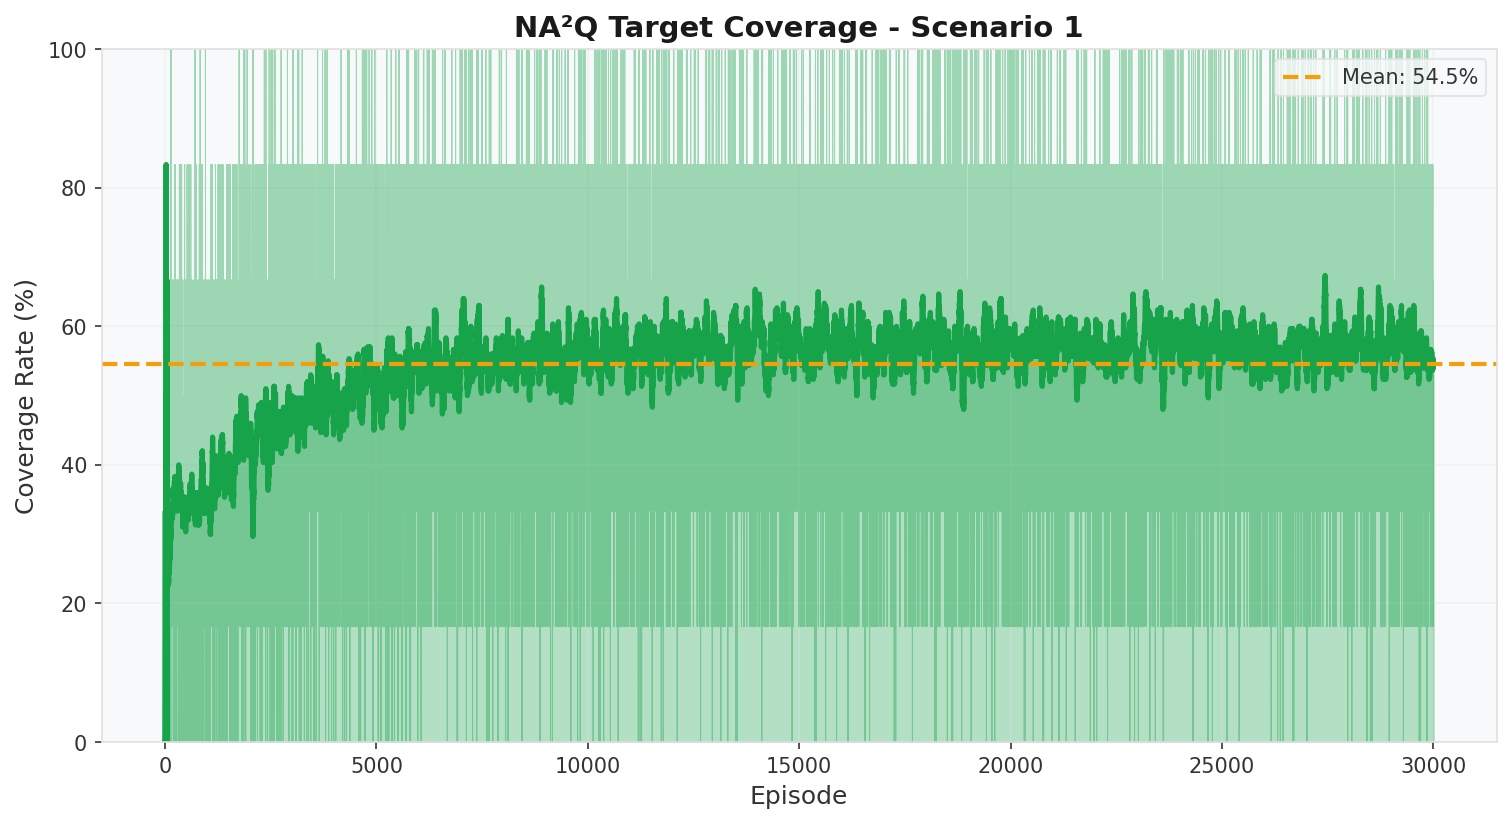
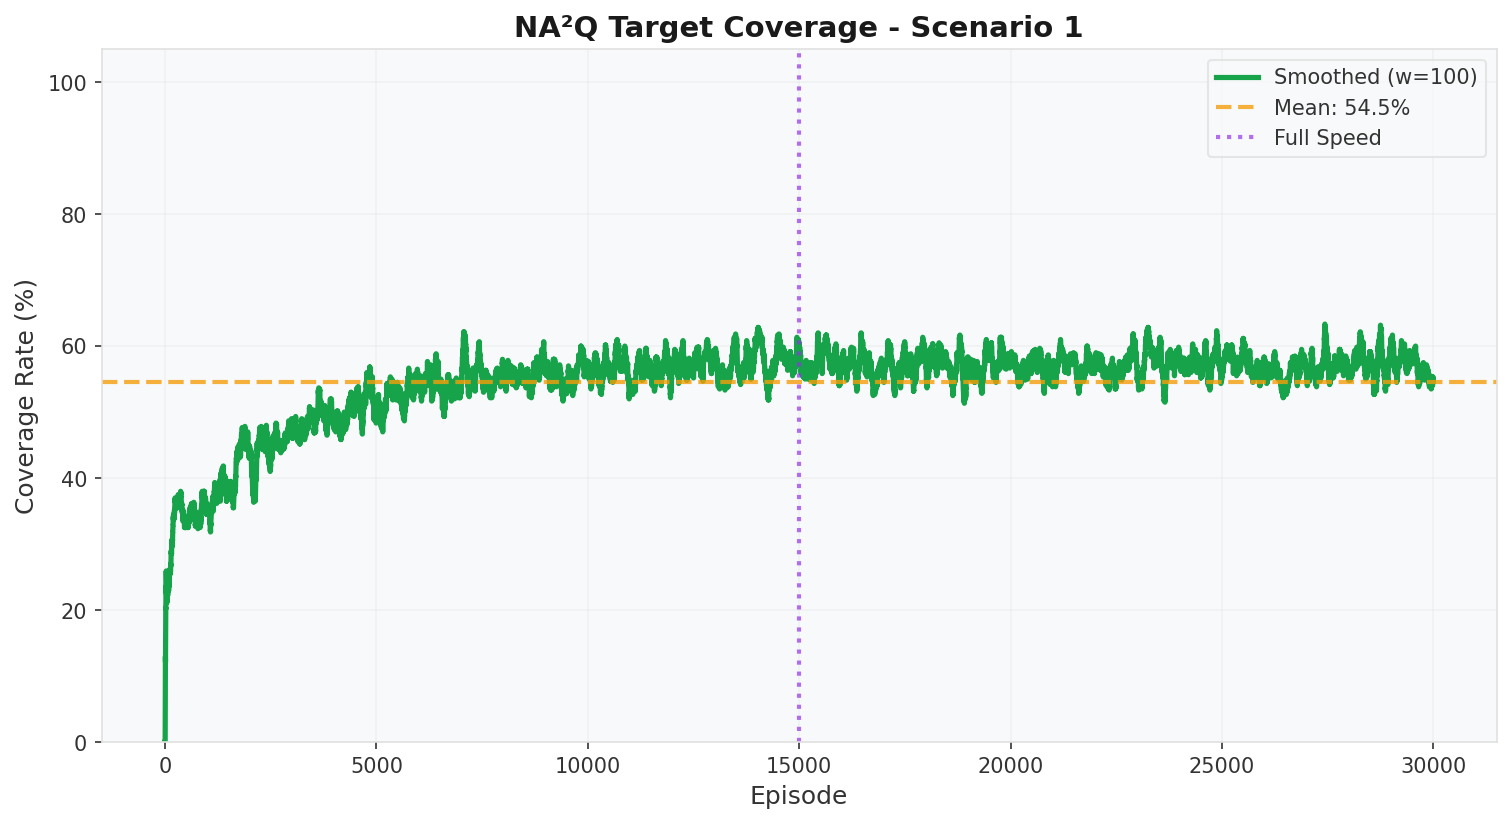
dqw

diff --git a/visualize.py b/visualize.py
@@ -52,17 +52,17 @@ from na2q.utils import get_device
 
 
 def smooth_curve(values: List[float], window: int = 10) -> np.ndarray:
-    """Smooth a curve using moving average."""
+    """Smooth a curve using moving average with expanding window at start."""
     if len(values) < window:
         return np.array(values)
     
-    weights = np.ones(window) / window
-    smoothed = np.convolve(values, weights, mode='valid')
+    values_arr = np.array(values)
+    smoothed = np.zeros(len(values))
     
-    # Pad beginning
-    pad_size = len(values) - len(smoothed)
-    if pad_size > 0:
-        smoothed = np.concatenate([values[:pad_size], smoothed])
+    # Use expanding window for the beginning (avoids spike)
+    for i in range(len(values)):
+        start_idx = max(0, i - window + 1)
+        smoothed[i] = np.mean(values_arr[start_idx:i+1])
     
     return smoothed
 
@@ -102,6 +102,9 @@ def plot_training_results(exp_dir: str, window: int = 50, history_dir: Optional[
     
     episodes = np.arange(1, len(rewards) + 1)
     coverage_pct = np.array(coverages) * 100
+    
+    # Curriculum milestone: targets reach full speed at 50% of episodes
+    full_speed_episode = len(rewards) // 2
     
     # =========================================================================
     # Light Theme Dashboard
@@ -144,11 +147,9 @@ def plot_training_results(exp_dir: str, window: int = 50, history_dir: Optional[
     # -------------------------------------------------------------------------
     ax1 = axes[0, 0]
     smoothed_rewards = smooth_curve(list(rewards), window)
-    ax1.fill_between(episodes, 0, smoothed_rewards, alpha=0.2, color=REWARD_COLOR)
-    ax1.plot(episodes, rewards, alpha=0.3, color=REWARD_COLOR, linewidth=0.5)
     ax1.plot(episodes, smoothed_rewards, color=REWARD_COLOR, linewidth=2.5, label=f'Smoothed (w={window})')
-    ax1.axhline(y=np.mean(rewards[-100:]), color='#f59e0b', linestyle='--', linewidth=1.5, 
-                alpha=0.8, label=f'Final: {np.mean(rewards[-100:]):.1f}')
+    ax1.axvline(x=full_speed_episode, color='#9333ea', linestyle=':', linewidth=1.5,
+                alpha=0.7, label='Full Speed')
     style_axis(ax1, 'Episode Reward', 'Episode', 'Reward', REWARD_COLOR)
     ax1.legend(loc='lower right', facecolor=PANEL_BG, edgecolor=GRID_COLOR, 
                labelcolor=TEXT_COLOR, fontsize=9)
@@ -158,13 +159,11 @@ def plot_training_results(exp_dir: str, window: int = 50, history_dir: Optional[
     # -------------------------------------------------------------------------
     ax2 = axes[0, 1]
     smoothed_coverage = smooth_curve(list(coverage_pct), window)
-    ax2.fill_between(episodes, 0, smoothed_coverage, alpha=0.2, color=COVERAGE_COLOR)
-    ax2.plot(episodes, coverage_pct, alpha=0.3, color=COVERAGE_COLOR, linewidth=0.5)
     ax2.plot(episodes, smoothed_coverage, color=COVERAGE_COLOR, linewidth=2.5, label=f'Smoothed (w={window})')
-    ax2.axhline(y=np.mean(coverage_pct[-100:]), color='#f59e0b', linestyle='--', linewidth=1.5,
-                alpha=0.8, label=f'Final: {np.mean(coverage_pct[-100:]):.1f}%')
+    ax2.axvline(x=full_speed_episode, color='#9333ea', linestyle=':', linewidth=1.5,
+                alpha=0.7, label='Full Speed')
     style_axis(ax2, 'Coverage Rate', 'Episode', 'Coverage (%)', COVERAGE_COLOR)
-    ax2.set_ylim(0, 100)
+    ax2.set_ylim(0, 105)
     ax2.legend(loc='lower right', facecolor=PANEL_BG, edgecolor=GRID_COLOR,
                labelcolor=TEXT_COLOR, fontsize=9)
     
@@ -177,20 +176,13 @@ def plot_training_results(exp_dir: str, window: int = 50, history_dir: Optional[
         valid_losses = [l if l > 0 else np.nan for l in losses]
         loss_x = np.linspace(1, len(rewards), len(valid_losses))
         
-        ax3.plot(loss_x, valid_losses, alpha=0.3, color=LOSS_COLOR, linewidth=0.5)
-        
         if len(losses) > window:
             # Smooth only non-zero losses
             clean_losses = [l for l in losses if l > 0]
             if len(clean_losses) > window:
-                smooth_loss = np.convolve(clean_losses, np.ones(window)/window, mode='valid')
+                smooth_loss = smooth_curve(clean_losses, window)
                 smooth_x = np.linspace(1, len(rewards), len(smooth_loss))
-                ax3.fill_between(smooth_x, 0, smooth_loss, alpha=0.2, color=LOSS_COLOR)
                 ax3.plot(smooth_x, smooth_loss, color=LOSS_COLOR, linewidth=2.5, label=f'Smoothed (w={window})')
-        
-        final_loss = np.mean([l for l in losses[-100:] if l > 0]) if len(losses) > 0 else 0
-        ax3.axhline(y=final_loss, color='#f59e0b', linestyle='--', linewidth=1.5,
-                    alpha=0.8, label=f'Final: {final_loss:.4f}')
     style_axis(ax3, 'Training Loss', 'Episode', 'Loss', LOSS_COLOR)
     ax3.legend(loc='upper right', facecolor=PANEL_BG, edgecolor=GRID_COLOR,
                labelcolor=TEXT_COLOR, fontsize=9)
@@ -206,19 +198,17 @@ def plot_training_results(exp_dir: str, window: int = 50, history_dir: Optional[
     Training Summary
     ─────────────────────────────
     Total Episodes: {len(rewards):,}
+    Full Speed at:  Episode {full_speed_episode:,}
     
     Reward:
-      Final (avg last 100): {np.mean(rewards[-100:]):.2f}
-      Best Episode: {np.max(rewards):.2f}
-      Overall Mean: {np.mean(rewards):.2f}
+      Highest: {np.max(rewards):.2f}
+      Lowest:  {np.min(rewards):.2f}
+      Mean:    {np.mean(rewards):.2f}
     
     Coverage:
-      Final (avg last 100): {np.mean(coverages[-100:])*100:.1f}%
-      Best Episode: {np.max(coverages)*100:.1f}%
-      Overall Mean: {np.mean(coverages)*100:.1f}%
-    
-    Loss:
-      Final (avg last 100): {np.mean([l for l in losses[-100:] if l > 0]):.4f}
+      Highest: {np.max(coverages)*100:.1f}%
+      Lowest:  {np.min(coverages)*100:.1f}%
+      Mean:    {np.mean(coverages)*100:.1f}%
     """
     
     ax4.text(0.1, 0.5, summary_text, transform=ax4.transAxes, fontsize=12,
@@ -232,23 +222,32 @@ def plot_training_results(exp_dir: str, window: int = 50, history_dir: Optional[
     print(f"Saved: {dashboard_path}")
     
     # =========================================================================
-    # Coverage Ratio Chart (Separate)
+    # Coverage Ratio Chart (Separate) - Clean visualization
     # =========================================================================
     fig, ax = plt.subplots(figsize=(12, 6), facecolor=LIGHT_BG)
     ax.set_facecolor(PANEL_BG)
     
-    ax.fill_between(episodes, 0, smoothed_coverage, alpha=0.3, color=COVERAGE_COLOR)
-    ax.plot(episodes, coverage_pct, alpha=0.4, color=COVERAGE_COLOR, linewidth=0.5)
-    ax.plot(episodes, smoothed_coverage, color=COVERAGE_COLOR, linewidth=2.5)
-    ax.axhline(y=np.mean(coverage_pct), color='#f59e0b', linestyle='--', linewidth=2, 
-               label=f'Mean: {np.mean(coverage_pct):.1f}%')
+    # Use larger smoothing window for cleaner chart
+    smooth_window = max(100, window * 2)
+    smoothed_coverage = smooth_curve(list(coverage_pct), smooth_window)
+    
+    # Plot smoothed line only (clean look)
+    ax.plot(episodes, smoothed_coverage, color=COVERAGE_COLOR, linewidth=2.5, label=f'Smoothed (w={smooth_window})')
+    
+    # Mean line
+    ax.axhline(y=np.mean(coverage_pct), color='#f59e0b', linestyle='--', linewidth=2,
+               alpha=0.8, label=f'Mean: {np.mean(coverage_pct):.1f}%')
+    
+    # Full speed milestone
+    ax.axvline(x=full_speed_episode, color='#9333ea', linestyle=':', linewidth=2,
+               alpha=0.7, label='Full Speed')
     
     ax.set_xlabel('Episode', fontsize=12, color=TEXT_COLOR)
     ax.set_ylabel('Coverage Rate (%)', fontsize=12, color=TEXT_COLOR)
     ax.set_title(f'NA²Q Target Coverage - Scenario {scenario}', fontsize=14, fontweight='bold', color=TITLE_COLOR)
     ax.tick_params(colors=TEXT_COLOR)
     ax.grid(True, alpha=0.3, color=GRID_COLOR)
-    ax.set_ylim(0, 100)
+    ax.set_ylim(0, 105)
     ax.legend(facecolor=PANEL_BG, edgecolor=GRID_COLOR, labelcolor=TEXT_COLOR)
     for spine in ax.spines.values():
         spine.set_color(GRID_COLOR)
@@ -272,8 +271,12 @@ def plot_training_results(exp_dir: str, window: int = 50, history_dir: Optional[
         if len(clean_losses) > window:
             smooth_loss = np.convolve(clean_losses, np.ones(window)/window, mode='valid')
             smooth_x = np.linspace(1, len(rewards), len(smooth_loss))
-            ax.fill_between(smooth_x, 0, smooth_loss, alpha=0.3, color=LOSS_COLOR)
             ax.plot(smooth_x, smooth_loss, color=LOSS_COLOR, linewidth=2.5, label='Total Loss')
+        
+        # Mean line
+        mean_loss = np.mean(clean_losses)
+        ax.axhline(y=mean_loss, color='#f59e0b', linestyle='--', linewidth=2,
+                   alpha=0.8, label=f'Mean: {mean_loss:.4f}')
     
     ax.set_xlabel('Episode', fontsize=12, color=TEXT_COLOR)
     ax.set_ylabel('Loss', fontsize=12, color=TEXT_COLOR)

diff --git a/README.md b/README.md
@@ -5,8 +5,11 @@
 ```bash
 pip install -r requirements.txt
 
-# Train (GPU settings applied automatically)
+# Train Scenario 1
 python -m na2q.main --mode train --scenario 1
+
+# Train Scenario 2
+python -m na2q.main --mode train --scenario 2
 
 # Test
 python -m na2q.main --mode test --scenario 1
@@ -21,13 +24,6 @@ python -m na2q.main --mode train --scenario 1 --resume
 |----------|------|---------|---------|
 | 1 | 3×3 | 5 | 6 |
 | 2 | 10×10 | 50 | 60 |
-
-### Quick Verification (Sanity Check)
-To test if the fix for **Scenario 1** works without waiting hours, run the "Turbo Test" config (Scenario 99):
-```bash
-python -m na2q.main --mode train --scenario 99
-```
-*Runs for 15 minutes (2k episodes) to verify the "Infinite Range Reward" fix.*
 
 ### Run Scenario 2 (Swarm)
 To run the 50-sensor "Swarm" configuration:
@@ -48,6 +44,4 @@ After training, visualized the results:
 
 See `train_config.py` for default training settings.
 
-## Documentation
 
-- [Coverage Analysis](docs/coverage_analysis.md) — Mathematical proof of why 80% coverage is impossible.
